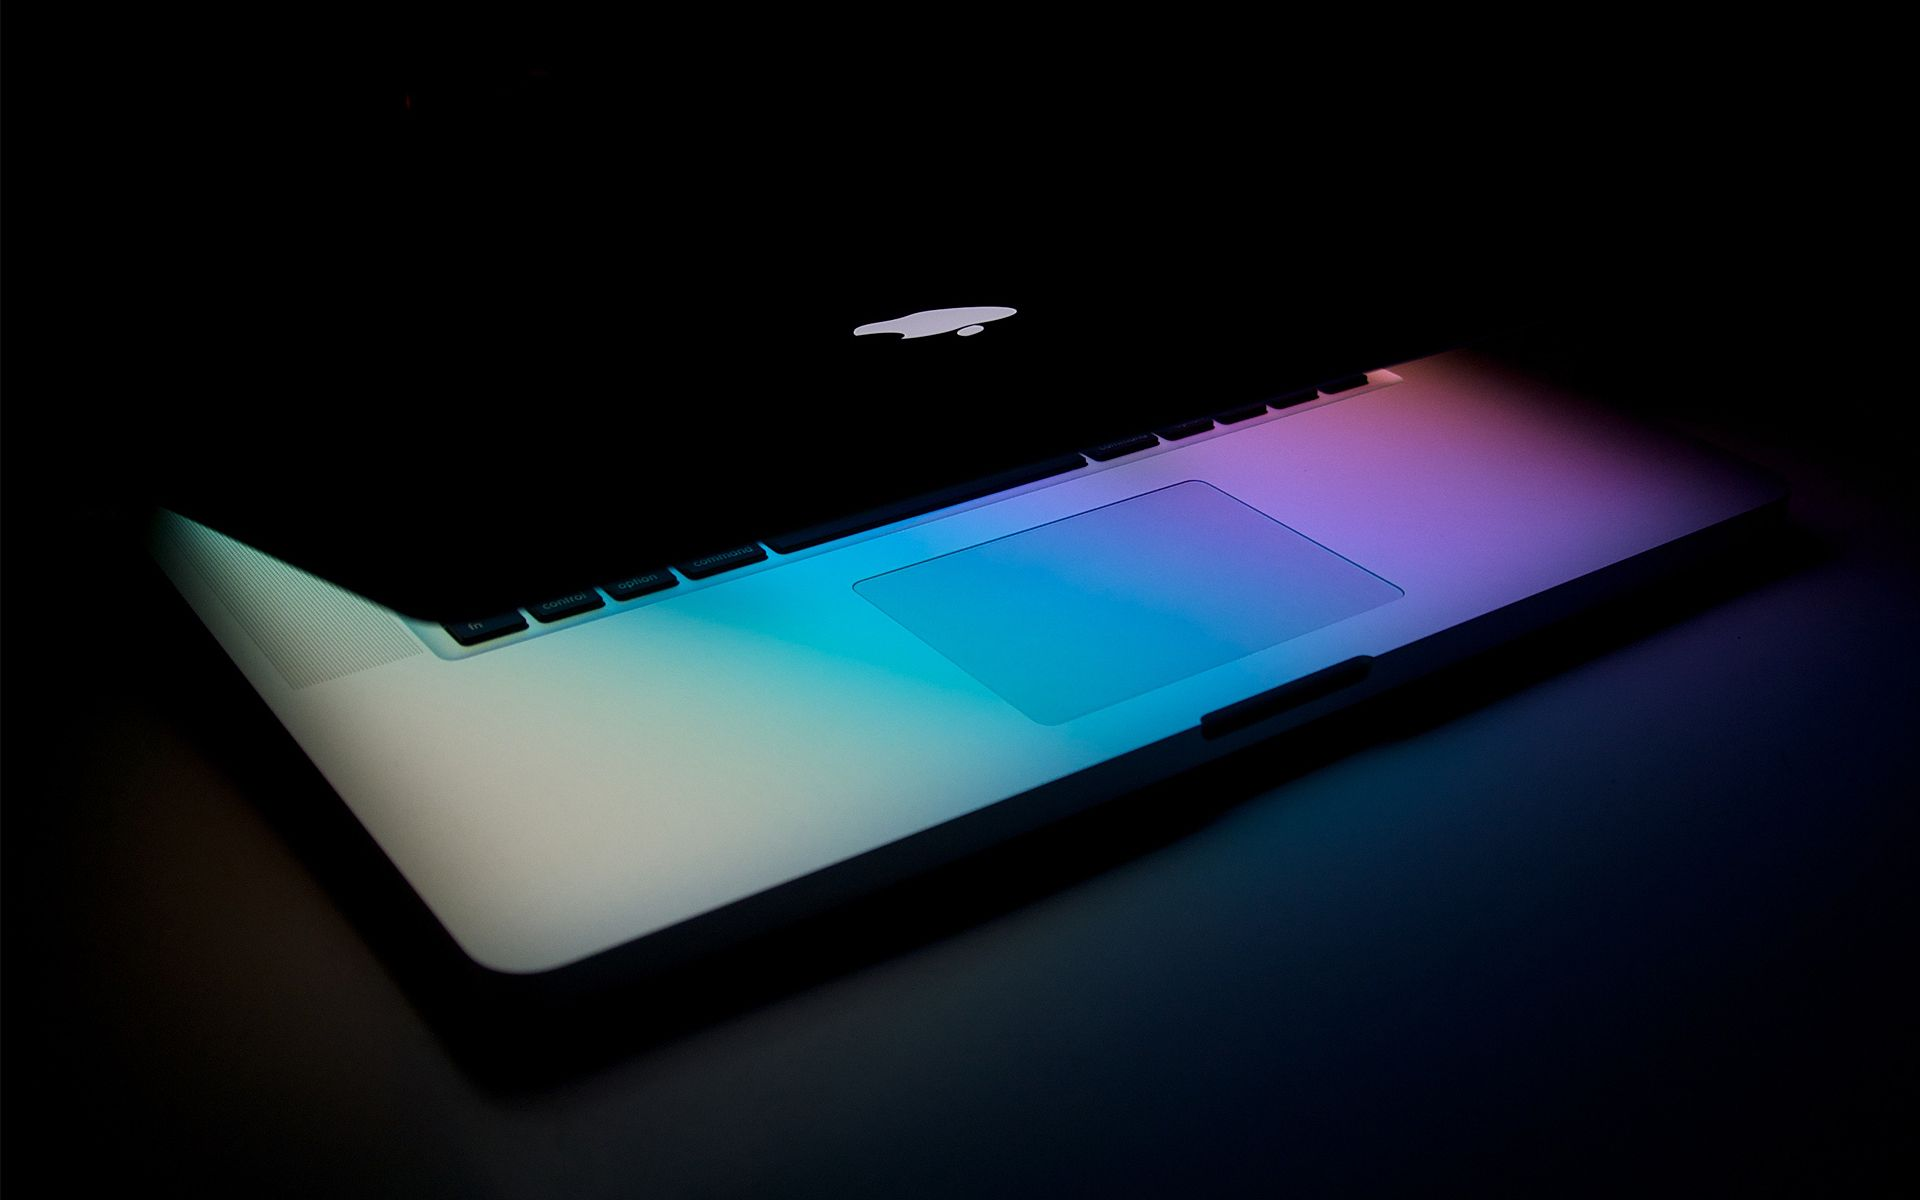
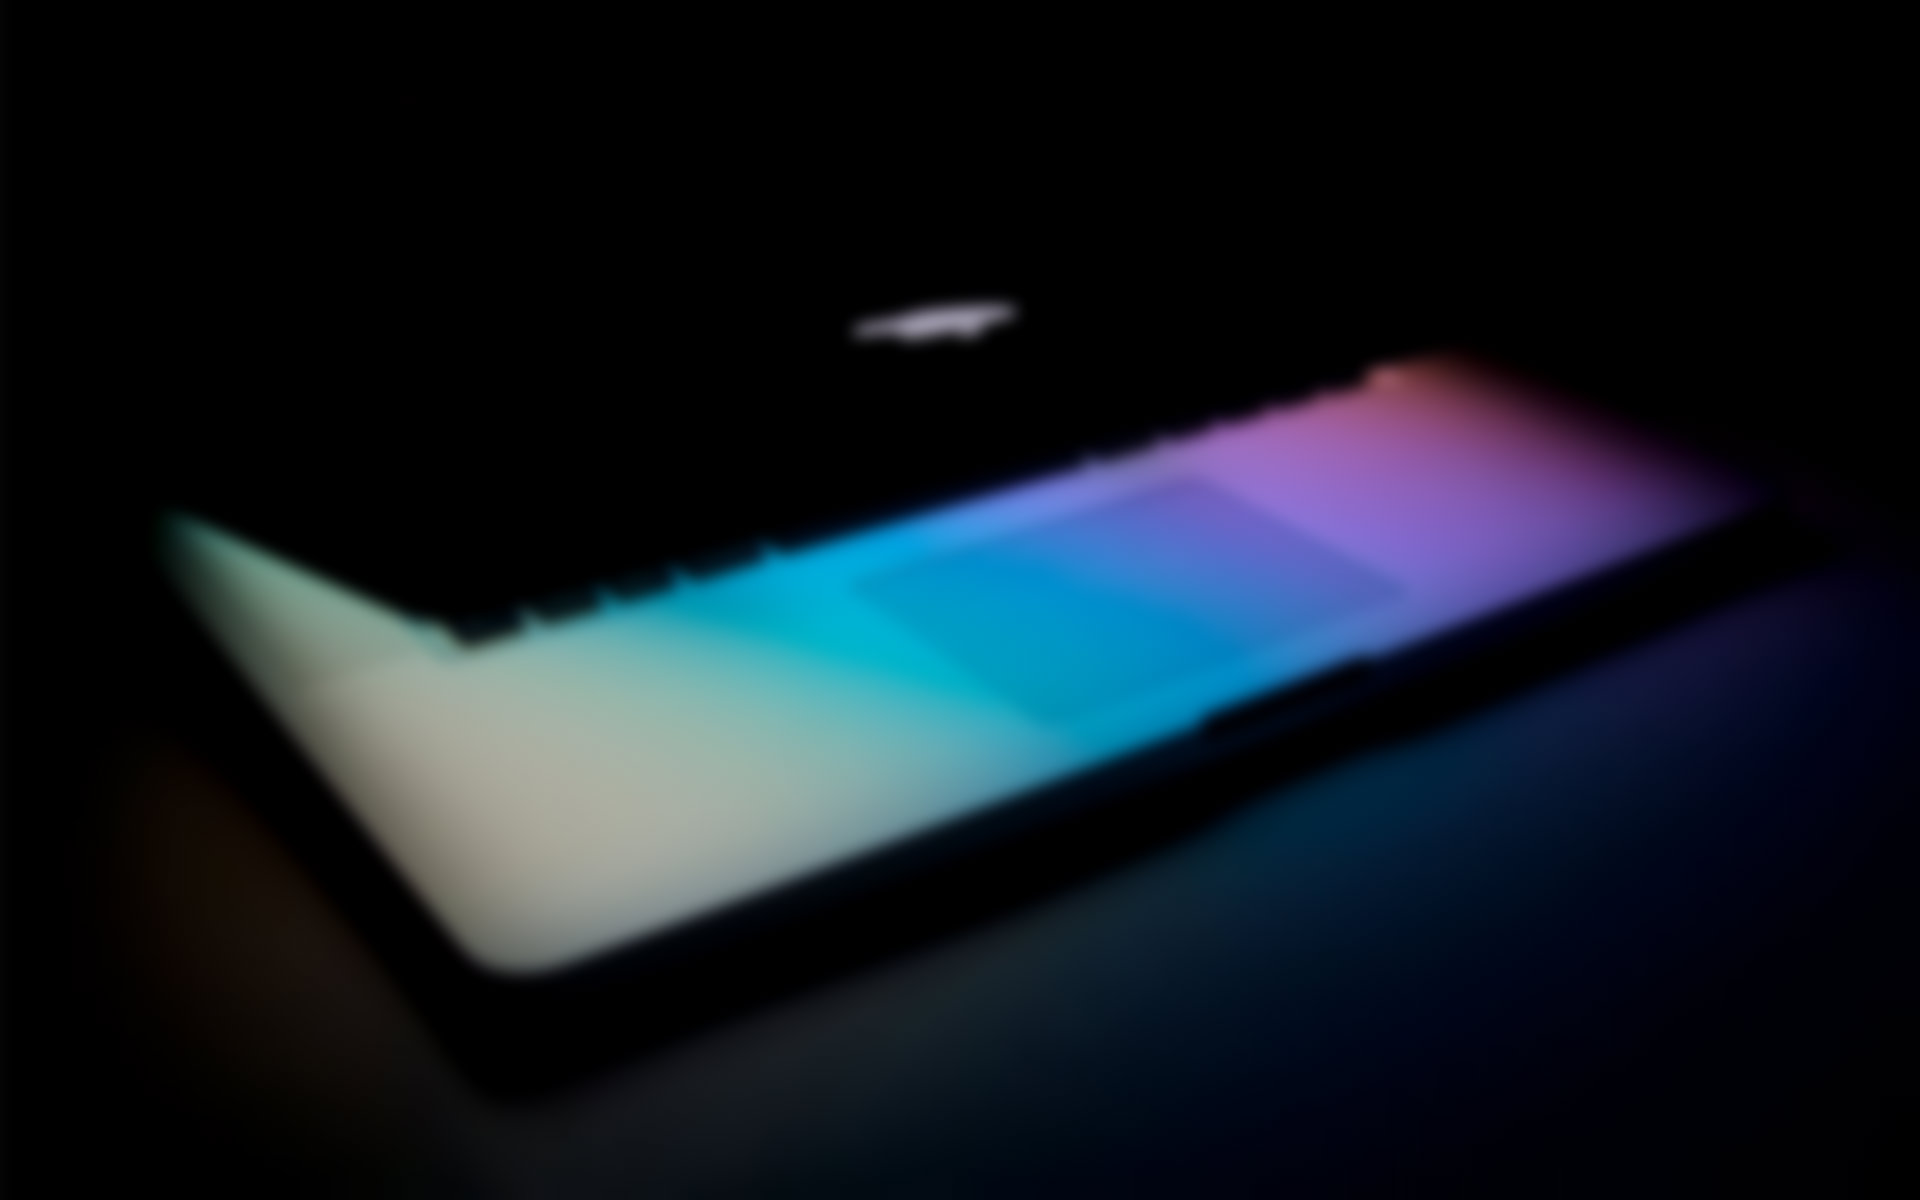
Added blur to background images

diff --git a/en/index.html b/en/index.html
@@ -65,7 +65,7 @@
           </div>
         </div>
         <div class="item">
-          <img src="../img/test3.jpg" alt="">
+          <img src="../img/test31.jpg" alt="">
           <div class="container">
             <div class="carousel-caption">
               <h1>Target: Entrepreneurship</h1>
